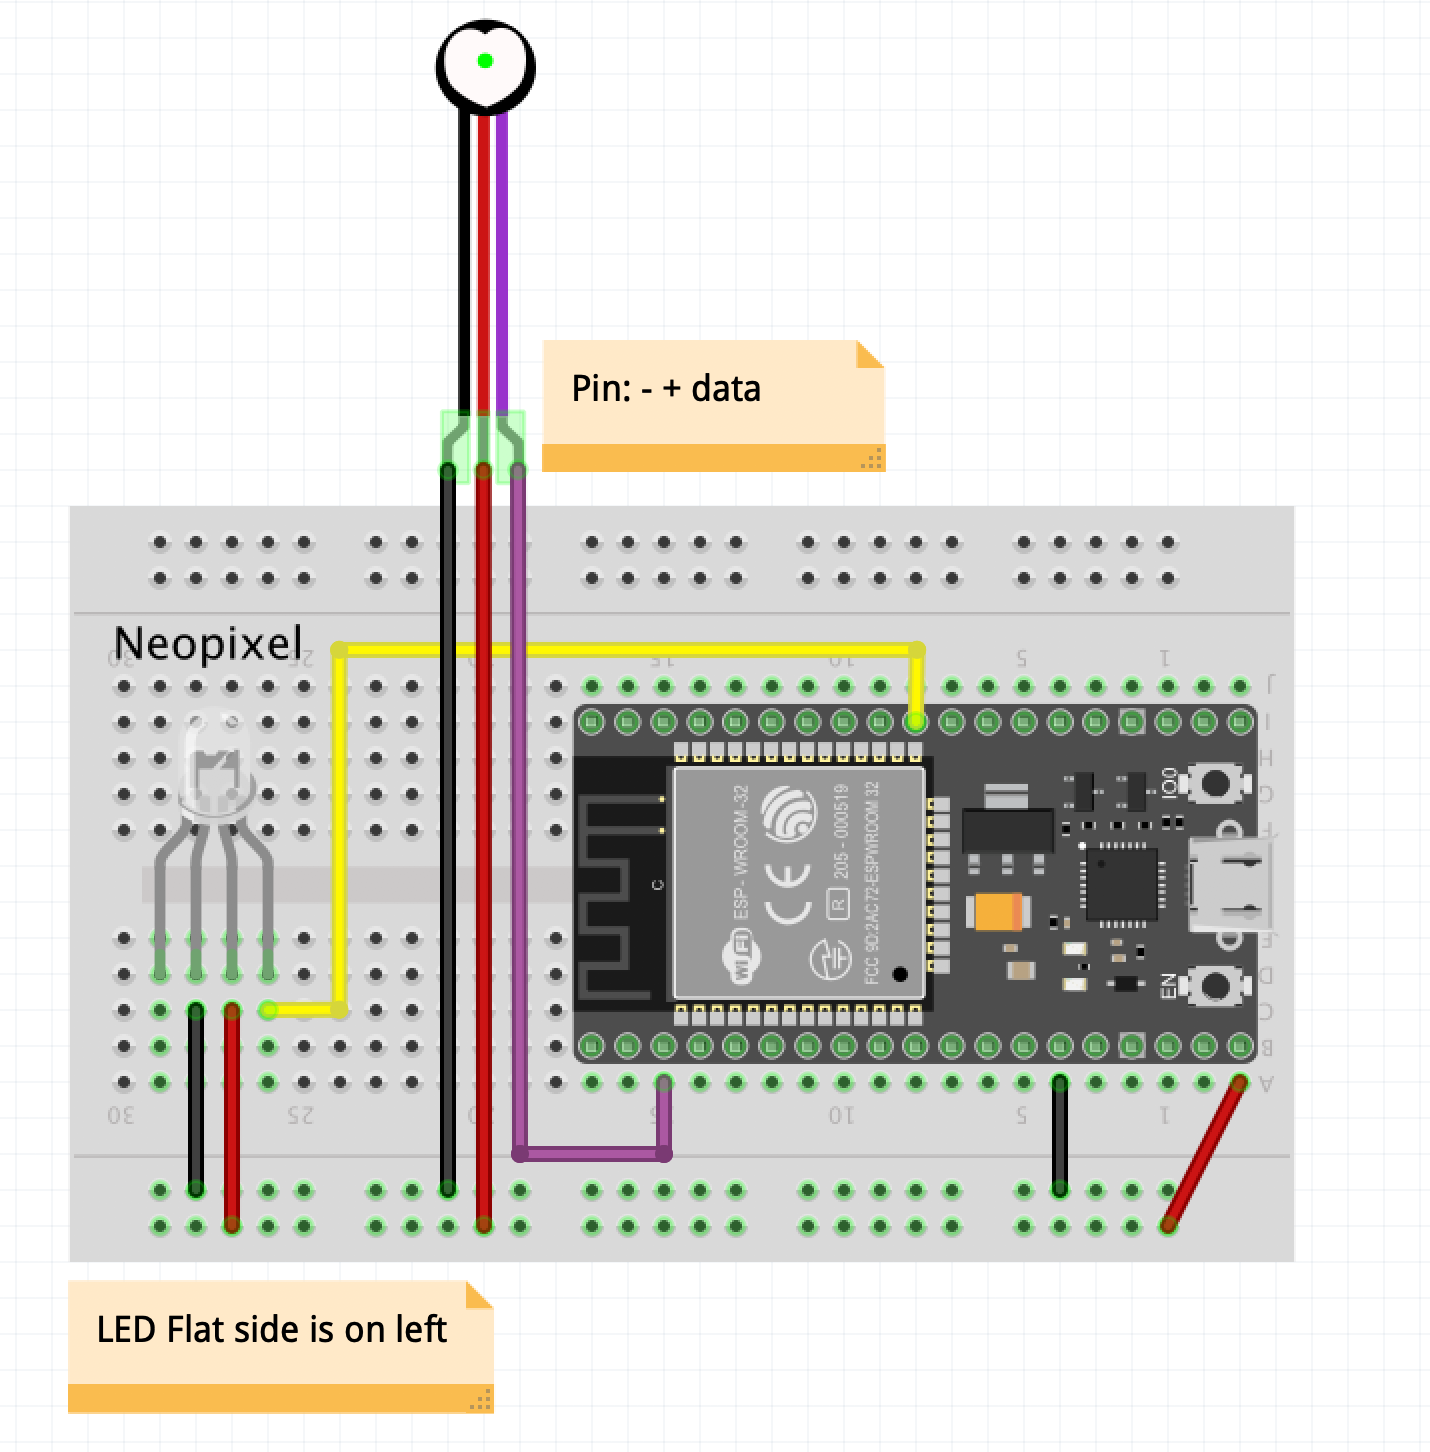
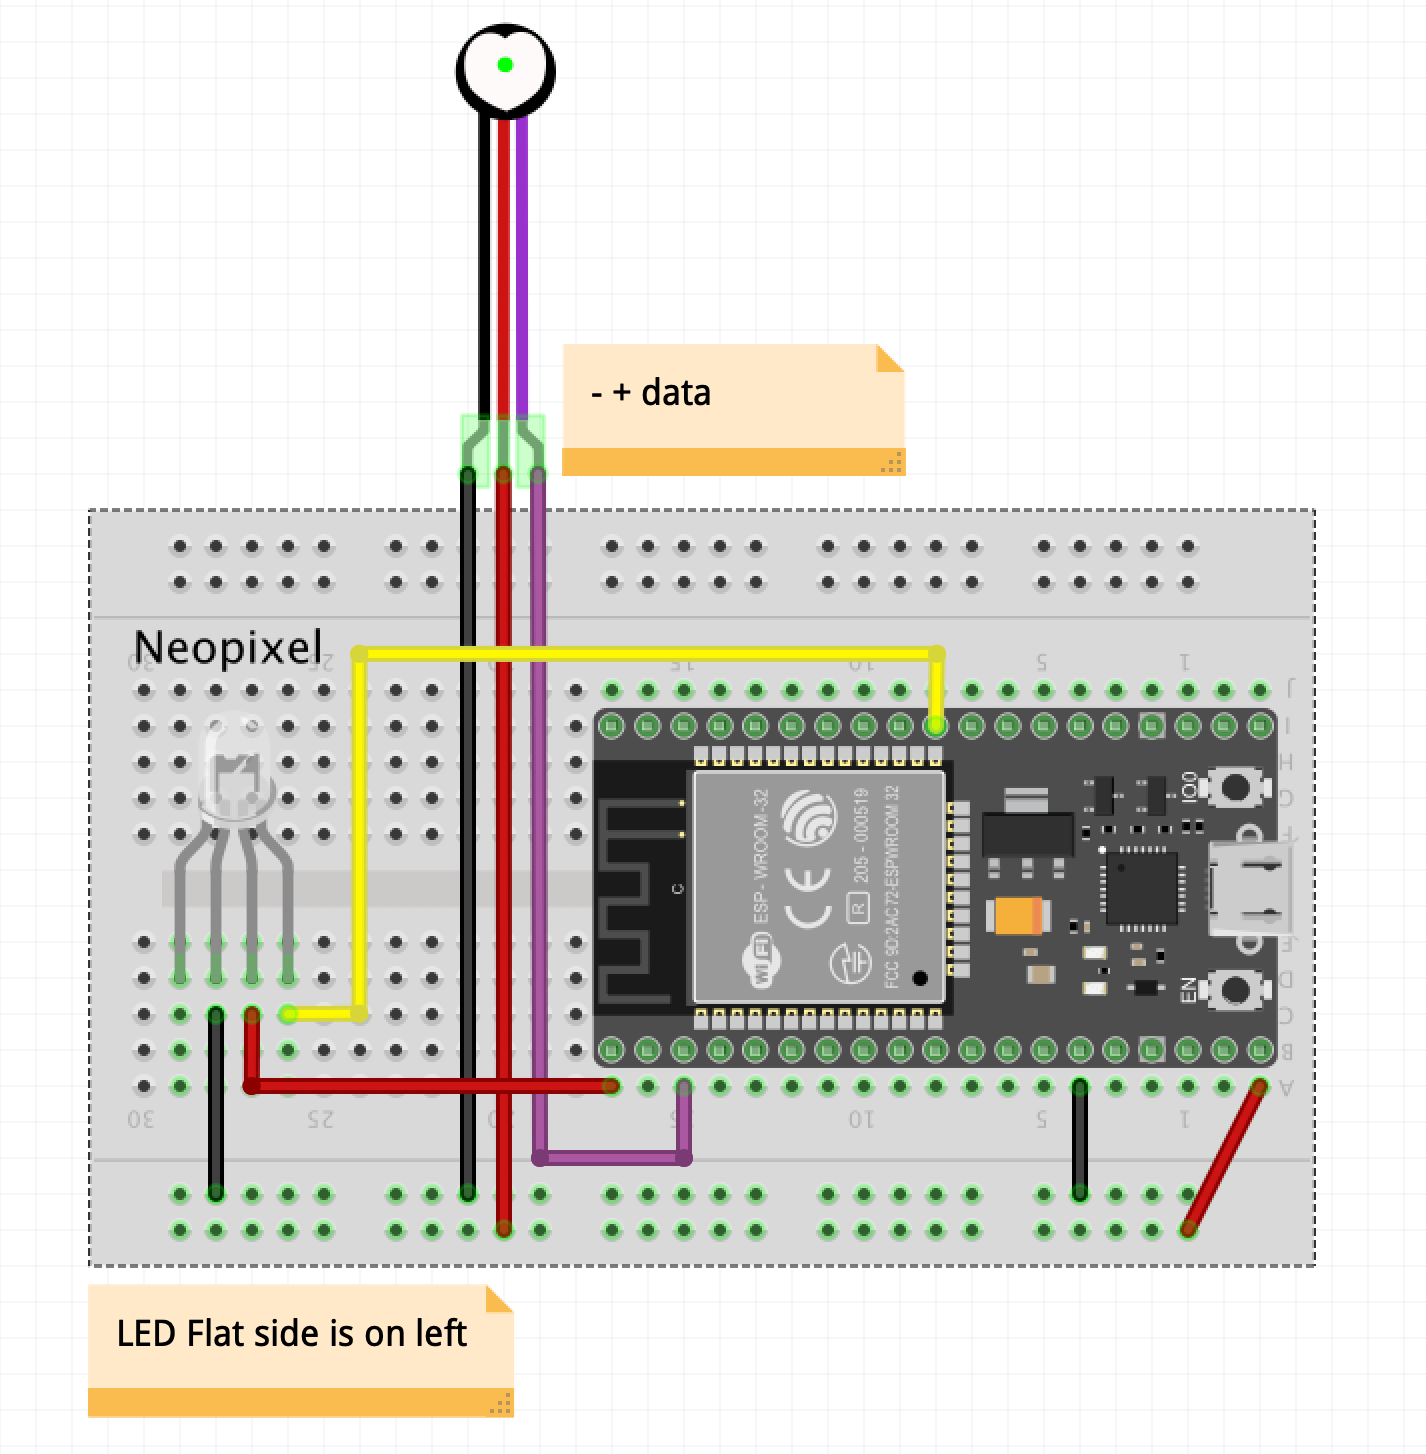
update diagram and code

Changed region(s): [[0.0309, 0.0, 0.9257, 0.9917]]

diff --git a/en/sensors/PULSE+RGB.md b/en/sensors/PULSE+RGB.md
@@ -51,50 +51,34 @@ int pulsePin = A0; // Pin Analog 0, or GPIO 36
 #define WARN 3000   //Warning thresh hold
 #define NORMAL 2000 //Normal, below which is also Alarm thresh hold
 
-#define NEOPIXEL_TYPE NEO_GBR + NEO_KHZ800
+#define NEOPIXEL_TYPE NEO_RGB + NEO_KHZ800
 #define RGB_PIN 4   // Control pin for the Neo Pixel RGB
 
 unsigned char r = 0;
 unsigned char g = 0;
 unsigned char b = 0;
-
 float s = 0.0; //Initiate the analog signal
-
 Adafruit_NeoPixel pixel = Adafruit_NeoPixel(1, RGB_PIN, NEOPIXEL_TYPE); // Initiate the neo pixel
-
 // The SetUp Function:
 void setup() {
-  pixel.begin();
   Serial.begin(115200);         // Set's up Serial Communication. 
+  pixel.begin();
 }// End setup
-
 // The Main Loop Function
 void loop() {
-  s = analogRead(pulsePin);  
-  
-  // Set RGB LED Colour based on pulse
-  
+  s = analogRead(pulsePin);    
+  // Set RGB LED Colour based on pulse  
   r = (s >= ALARM || s <=NORMAL) ? 255 : ((s > WARN) ? 150 : 0);  // Turn the neo pixel RED if the pulse is above ALARM thresh hold or below the NORMAL thresh hold
-  
   b = (s > WARN && s < ALARM) ? 255 : 0;        // Blue range
-  
   g = (s > NORMAL && s < WARN) ? 255 : 0;       // Green range
-
   // This is just for testing purpose, comment out as needed
-
   Serial.println((String)"Signal value: "+s);
-  
   Serial.println((String)"Red: " +  r);
   Serial.println((String)"Blue: " +  b);
   Serial.println((String)"Green: " +  g);
-  
-  
-  pixel.setPixelColor(0, r, g,b );  // Set color for the neo pixel
-  
-  pixel.show();
-  
-  delay(500); // Act every 500ms
-  
+  pixel.setPixelColor(0, r, g,b );  // Set color for the neo pixel  
+  pixel.show();  
+  delay(500); // Act every 500ms  
 }//End loop
 
 ```
